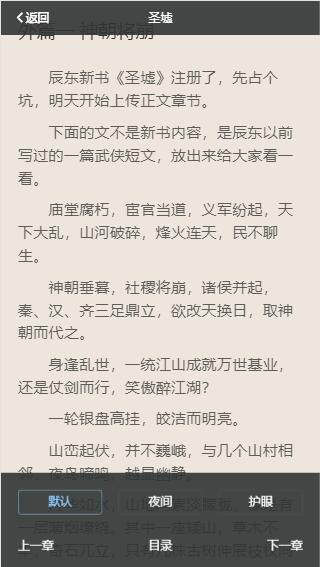
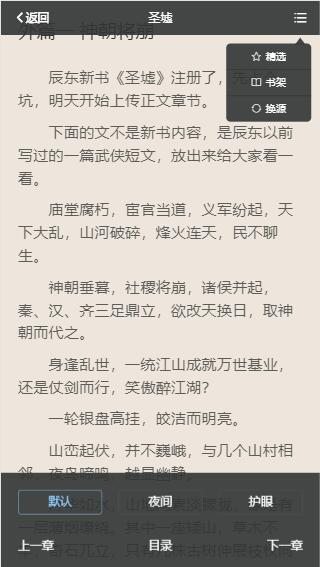
add

Changed region(s): [[0.6875, 0.03, 1.0, 0.2399]]

diff --git a/src/assets/font/iconfont.js b/src/assets/font/iconfont.js
@@ -1,1 +1,1 @@
-!function(i){var c,a='<svg><symbol id="icon-fenlei" viewBox="0 0 1026 1024"><path d="M880.76373506 961.95048067L625.79320947 961.95048067c-45.35277539 0-82.08850078-57.681225-82.08850078-103.03400039L543.70470869 625.82397822c0-45.3274831 36.73572539-82.09289971 82.08850078-82.0928997l254.96942608 0c45.29669151 0 82.08850078 36.76651612 82.08850078 82.0928997l0 254.03800166C962.85223584 925.21475527 926.06042656 961.95048067 880.76373506 961.95048067L880.76373506 961.95048067zM920.68301885 628.77990342c0-23.1404502-18.77584219-41.8910001-41.8910001-41.8910001L627.48230908 586.8889042c-23.11075898 0-41.8910001 18.7505499-41.8910001 41.8910001l0 251.30970966c0 23.11075898 18.78024112 41.88660117 41.8910001 41.88660117l251.30970967 0c23.11515791 0 41.8910001-18.77584219 41.8910001-41.88660117L920.68301885 628.77990342 920.68301885 628.77990342zM880.76373506 480.2754623L625.79320947 480.2754623c-45.35277539 0-82.08850078-57.70651817-82.08850078-103.05929355L543.70470869 144.11926953c0-45.32308417 36.73572539-82.11929151 82.08850078-82.11929151l254.96942608 0c45.29669151 0 82.08850078 36.79620732 82.08850078 82.11929151l0 254.04240059C962.85223584 443.5100457 926.06042656 480.2754623 880.76373506 480.2754623L880.76373506 480.2754623zM920.68301885 147.07409433c0-23.1140584-18.77584219-41.88990059-41.8910001-41.88990058L627.48230908 105.18419551c-23.11075898 0-41.8910001 18.77584219-41.8910001 41.88990058l0 251.31080919c0 23.1404502 18.78024112 41.88990059 41.8910001 41.88990058l251.30970967 0c23.11515791 0 41.8910001-18.74945039 41.8910001-41.88990058L920.68301885 147.07409433 920.68301885 147.07409433zM399.05902636 961.95048067L144.11929151 961.95048067C98.73572539 961.95048067 62 904.26925567 62 858.91648028L62 625.82397822c0-45.3274831 36.73572539-82.09289971 82.11929151-82.0928997l254.93973398 0c45.3274831 0 82.11929151 36.76651612 82.11929151 82.0928997l0 254.03800166C481.1519252 925.21475527 444.38650859 961.95048067 399.05902636 961.95048067L399.05902636 961.95048067zM438.97831016 628.77990342c0-23.1404502-18.74615097-41.8910001-41.88660118-41.8910001L145.78199932 586.8889042c-23.11515791 0-41.8910001 18.7505499-41.8910001 41.8910001l0 251.30970966c0 23.11075898 18.77584219 41.88660117 41.8910001 41.88660117l251.30970966 0c23.1404502 0 41.88660117-18.77584219 41.88660118-41.88660117L438.97831016 628.77990342 438.97831016 628.77990342zM399.05902636 480.2754623L144.11929151 480.2754623C98.73572539 480.2754623 62 422.56894414 62 377.21616963L62 144.11926953c0-45.32308417 36.73572539-82.11929151 82.11929151-82.11929151l254.93973398 0c45.3274831 0 82.11929151 36.76651612 82.11929151 82.11929151l0 254.04240059C481.1519252 443.5100457 444.38650859 480.2754623 399.05902636 480.2754623L399.05902636 480.2754623zM438.97831016 147.07409433c0-23.1140584-18.74615097-41.88990059-41.88660118-41.88990058L145.78199932 105.18419551c-23.11515791 0-41.8910001 18.77584219-41.8910001 41.88990058l0 251.31080919c0 23.1404502 18.77584219 41.88990059 41.8910001 41.88990058l251.30970966 0c23.1404502 0 41.88660117-18.74945039 41.88660118-41.88990058L438.97831016 147.07409433 438.97831016 147.07409433zM438.97831016 147.07409433"  ></path></symbol><symbol id="icon-book" viewBox="0 0 1024 1024"><path d="M951.74656 117.52789333h-272.45499733c-51.63690667 0-100.16085333 19.07643733-136.740864 53.84328534-12.45184 11.80740267-22.183936 25.427968-30.61623467 39.56736-8.43776-14.139392-18.16439467-27.63434667-30.74730667-39.56736-36.59093333-34.766848-85.10941867-53.837824-136.74632533-53.837824H72.25344c-14.39607467 0-26.07240533 11.02097067-26.07240533 24.77806933V827.06432c0 13.75163733 11.67633067 24.77806933 26.07786666 24.77806933h245.071872c10.25092267 0 20.63291733 0.78097067 31.00945067 2.719744 10.50760533 1.95515733 20.496384 4.67490133 29.966336 8.31214934l124.16341333 45.924352c0.25668267 0.12561067 0.51882667 0 0.77550934 0.12561066 2.85627733 0.91204267 5.71255467 1.55648 8.69444266 1.55648 2.98734933 0 5.832704-0.51336533 8.69444267-1.55648 0.12561067-0.12561067 0.51882667-0.12561067 0.64989867-0.12561066l119.226368-44.11118934a217.11530667 217.11530667 0 0 1 35.160064-9.601024 210.91669333 210.91669333 0 0 1 36.31786666-3.244032h239.75799467c14.40699733 0 26.083328-11.157504 26.083328-24.77806933V142.180352c0-13.62602667-11.67633067-24.64699733-26.083328-24.64699733zM357.79925333 805.797888a235.71114667 235.71114667 0 0 0-40.47940266-3.506176H98.20023467V166.95296h246.37166933c37.748736 0 73.302016 14.01378133 100.02432 39.57282133 26.72776533 25.427968 41.517056 59.15716267 41.517056 95.22926934v547.62427733l-88.87227733-32.82807467a247.63323733 247.63323733 0 0 0-39.436288-10.764288z m567.99505067-3.506176h-213.68558933c-15.5648 0-31.13506133 1.294336-45.91889067 4.02500267-15.05143467 2.850816-30.10286933 6.87035733-44.37333333 12.19515733l-83.80962134 30.87837867V301.62944c0-35.93557333 14.65821867-69.79584 41.385984-95.22926933 26.722304-25.427968 62.275584-39.56736 100.02432-39.56736h246.50274134v635.45344h-0.12561067z"  ></path></symbol><symbol id="icon-jingxuan" viewBox="0 0 1024 1024"><path d="M270.19563154 957.85503945l220.29664834-122.2070458c7.33422217-4.04957109 26.54718575-12.01372646 44.1403207-0.08999121l220.79159649 121.48712314a32.08159951 32.08159951 0 0 0 47.24499199-33.43145625l-43.01544023-256.92276621s-8.90905605-41.80056943 11.02383105-57.23393378l182.18568867-174.7614753a32.08159951 32.08159951 0 0 0 7.51420372-32.3065749c-3.7346045-11.33879766-11.65376513-23.39751973-23.39751974-25.42230527H763.97329092c-14.84842588 0-26.72716729 12.46367901-23.53250566 25.42230527 3.19466162 12.91363154 10.93384073 19.5729249 30.23679463 19.5729249h141.15003837l-176.24631797 158.65318301c-23.03755839 20.42783437-24.65738613 47.02001573-23.03755752 57.05395225l4.9494753 30.41677529 38.06596493 236.6749125-223.71628622-126.25661689a39.95576455 39.95576455 0 0 0-34.96129454-1e-8l-213.00742089 121.93707481 56.37902344-238.51971651c4.85948496-26.14222881-8.72907451-54.48922383-24.97235274-71.85738339L112.89230527 421.96184404s82.25128125 0.85490948 134.76071514 0c65.51305576-1.07988574 138.45032403-12.46367901 165.53745352-44.99523018 16.96320176-13.3635832 59.52869033-128.68635937 59.52868945-128.68635937l38.51591748-124.45680762 128.10142177 278.52047667c7.64918877 16.10829229 19.75290644 18.0430875 30.64175157 14.98341181 10.93384073-3.10467129 18.53803477-17.00819737 10.93384072-33.11648965L540.34699502 80.44804443a32.17158984 32.17158984 0 0 0-58.17883271 0.13498594l-53.22935743 161.08292461S397.03718604 329.63163067 379.26407041 345.3349669C346.8675043 374.04192325 269.02575547 376.96661386 157.93253105 376.96661386H91.42958076c-11.92373613 1.79980927-22.49761553 9.44899805-26.32221035 20.87778692-3.77959922 11.38379326-2.24976182 30.01181836 6.11935137 38.56091221 0 0 184.79541182 162.79274356 195.68425781 173.05165634 29.92182802 28.21200997 25.33231494 33.34146592 24.2524292 57.2339338 1.07988574 0-55.56910957 239.46461719-60.20361826 253.36814237-4.63450869 13.94852168-4.85948496 28.88693789 5.17445156 35.99618468a31.63164698 31.63164698 0 0 0 34.06138945 1.79980927z"  ></path></symbol><symbol id="icon-paihangbang-" viewBox="0 0 1024 1024"><path d="M554.6 880.4c-8.2 0-14.9-6.7-14.9-14.9V646.7c0-8.2 6.7-14.9 14.9-14.9s14.9 6.7 14.9 14.9v218.7c0 8.3-6.7 15-14.9 15zM470.4 880.4c-8.2 0-14.9-6.7-14.9-14.9V646.7c0-8.2 6.7-14.9 14.9-14.9s14.9 6.7 14.9 14.9v218.7c0.1 8.3-6.6 15-14.9 15z"  ></path><path d="M743.7 959.1H281.3c-28.9 0-52.4-23.5-52.4-52.4s23.5-52.4 52.4-52.4h462.5c28.9 0 52.4 23.5 52.4 52.4s-23.6 52.4-52.5 52.4z m-462.4-74.9c-12.4 0-22.5 10.1-22.5 22.5s10.1 22.5 22.5 22.5h462.5c12.4 0 22.5-10.1 22.5-22.5s-10.1-22.5-22.5-22.5H281.3zM568.2 653H456.8c-128.6 0-233.1-104.6-233.1-233.1V79c0-8.2 6.7-14.9 14.9-14.9h547.8c8.2 0 14.9 6.7 14.9 14.9v340.8c0 128.6-104.6 233.2-233.1 233.2zM253.5 93.9v325.9c0 112.1 91.2 203.3 203.3 203.3h111.4c112.1 0 203.3-91.2 203.3-203.3V93.9h-518z"  ></path><path d="M233.5 397.5c-70.5 0-127.8-57.3-127.8-127.8S163 141.9 233.5 141.9c8.2 0 14.9 6.7 14.9 14.9s-6.7 14.9-14.9 14.9c-54 0-97.9 43.9-97.9 97.9 0 54 43.9 97.9 97.9 97.9 8.2 0 14.9 6.7 14.9 14.9s-6.6 15.1-14.9 15.1zM791.5 397.5c-8.2 0-14.9-6.7-14.9-14.9s6.7-14.9 14.9-14.9c54 0 97.9-43.9 97.9-97.9 0-54-43.9-97.9-97.9-97.9-8.2 0-14.9-6.7-14.9-14.9s6.7-14.9 14.9-14.9c70.5 0 127.8 57.3 127.8 127.8s-57.4 127.6-127.8 127.6z"  ></path><path d="M885.8 93.9h-99.7c-8.2 0-14.9-6.7-14.9-14.9s6.7-14.9 14.9-14.9h99.7c8.2 0 14.9 6.7 14.9 14.9s-6.7 14.9-14.9 14.9zM238.9 93.9h-99.7c-8.2 0-14.9-6.7-14.9-14.9s6.7-14.9 14.9-14.9h99.7c8.2 0 14.9 6.7 14.9 14.9s-6.7 14.9-14.9 14.9z"  ></path></symbol><symbol id="icon-sousuo" viewBox="0 0 1024 1024"><path d="M949.76 884.3264a88.68864 88.68864 0 0 1-25.64096 62.67904 87.14752 87.14752 0 0 1-123.76576 0.16896l-164.29568-160.87552a382.4128 382.4128 0 0 1-26.43968 12.6208 382.83776 382.83776 0 0 1-300.032 0 383.38048 383.38048 0 0 1-122.48064-83.39968 391.296 391.296 0 0 1 0-550.36928 384.56832 384.56832 0 0 1 627.55328 123.648 391.00416 391.00416 0 0 1-40.704 376.57088l150.32832 156.56448a88.576 88.576 0 0 1 25.47712 62.39232z m-153.6512-444.04736c0-186.33216-150.41536-337.92-335.30368-337.92s-335.32928 151.6032-335.32928 337.92S275.89632 778.24 460.8 778.24s335.3088-151.64928 335.3088-337.96096z m-503.61344 168.90368a240.45568 240.45568 0 0 1 0-337.73568l34.63168 40.07424a183.46496 183.46496 0 0 0 0 257.50528z"  ></path></symbol></svg>',e=(c=document.getElementsByTagName("script"))[c.length-1].getAttribute("data-injectcss");if(e&&!i.__iconfont__svg__cssinject__){i.__iconfont__svg__cssinject__=!0;try{document.write("<style>.svgfont {display: inline-block;width: 1em;height: 1em;fill: currentColor;vertical-align: -0.1em;font-size:16px;}</style>")}catch(c){console&&console.log(c)}}!function(c){if(document.addEventListener)if(~["complete","loaded","interactive"].indexOf(document.readyState))setTimeout(c,0);else{var e=function(){document.removeEventListener("DOMContentLoaded",e,!1),c()};document.addEventListener("DOMContentLoaded",e,!1)}else document.attachEvent&&(t=c,n=i.document,l=!1,o=function(){l||(l=!0,t())},(a=function(){try{n.documentElement.doScroll("left")}catch(c){return void setTimeout(a,50)}o()})(),n.onreadystatechange=function(){"complete"==n.readyState&&(n.onreadystatechange=null,o())});var t,n,l,o,a}(function(){var c,e,t,n,l,o;(c=document.createElement("div")).innerHTML=a,a=null,(e=c.getElementsByTagName("svg")[0])&&(e.setAttribute("aria-hidden","true"),e.style.position="absolute",e.style.width=0,e.style.height=0,e.style.overflow="hidden",t=e,(n=document.body).firstChild?(l=t,(o=n.firstChild).parentNode.insertBefore(l,o)):n.appendChild(t))})}(window);
+!function(i){var c,o='<svg><symbol id="icon-fenlei" viewBox="0 0 1026 1024"><path d="M880.76373506 961.95048067L625.79320947 961.95048067c-45.35277539 0-82.08850078-57.681225-82.08850078-103.03400039L543.70470869 625.82397822c0-45.3274831 36.73572539-82.09289971 82.08850078-82.0928997l254.96942608 0c45.29669151 0 82.08850078 36.76651612 82.08850078 82.0928997l0 254.03800166C962.85223584 925.21475527 926.06042656 961.95048067 880.76373506 961.95048067L880.76373506 961.95048067zM920.68301885 628.77990342c0-23.1404502-18.77584219-41.8910001-41.8910001-41.8910001L627.48230908 586.8889042c-23.11075898 0-41.8910001 18.7505499-41.8910001 41.8910001l0 251.30970966c0 23.11075898 18.78024112 41.88660117 41.8910001 41.88660117l251.30970967 0c23.11515791 0 41.8910001-18.77584219 41.8910001-41.88660117L920.68301885 628.77990342 920.68301885 628.77990342zM880.76373506 480.2754623L625.79320947 480.2754623c-45.35277539 0-82.08850078-57.70651817-82.08850078-103.05929355L543.70470869 144.11926953c0-45.32308417 36.73572539-82.11929151 82.08850078-82.11929151l254.96942608 0c45.29669151 0 82.08850078 36.79620732 82.08850078 82.11929151l0 254.04240059C962.85223584 443.5100457 926.06042656 480.2754623 880.76373506 480.2754623L880.76373506 480.2754623zM920.68301885 147.07409433c0-23.1140584-18.77584219-41.88990059-41.8910001-41.88990058L627.48230908 105.18419551c-23.11075898 0-41.8910001 18.77584219-41.8910001 41.88990058l0 251.31080919c0 23.1404502 18.78024112 41.88990059 41.8910001 41.88990058l251.30970967 0c23.11515791 0 41.8910001-18.74945039 41.8910001-41.88990058L920.68301885 147.07409433 920.68301885 147.07409433zM399.05902636 961.95048067L144.11929151 961.95048067C98.73572539 961.95048067 62 904.26925567 62 858.91648028L62 625.82397822c0-45.3274831 36.73572539-82.09289971 82.11929151-82.0928997l254.93973398 0c45.3274831 0 82.11929151 36.76651612 82.11929151 82.0928997l0 254.03800166C481.1519252 925.21475527 444.38650859 961.95048067 399.05902636 961.95048067L399.05902636 961.95048067zM438.97831016 628.77990342c0-23.1404502-18.74615097-41.8910001-41.88660118-41.8910001L145.78199932 586.8889042c-23.11515791 0-41.8910001 18.7505499-41.8910001 41.8910001l0 251.30970966c0 23.11075898 18.77584219 41.88660117 41.8910001 41.88660117l251.30970966 0c23.1404502 0 41.88660117-18.77584219 41.88660118-41.88660117L438.97831016 628.77990342 438.97831016 628.77990342zM399.05902636 480.2754623L144.11929151 480.2754623C98.73572539 480.2754623 62 422.56894414 62 377.21616963L62 144.11926953c0-45.32308417 36.73572539-82.11929151 82.11929151-82.11929151l254.93973398 0c45.3274831 0 82.11929151 36.76651612 82.11929151 82.11929151l0 254.04240059C481.1519252 443.5100457 444.38650859 480.2754623 399.05902636 480.2754623L399.05902636 480.2754623zM438.97831016 147.07409433c0-23.1140584-18.74615097-41.88990059-41.88660118-41.88990058L145.78199932 105.18419551c-23.11515791 0-41.8910001 18.77584219-41.8910001 41.88990058l0 251.31080919c0 23.1404502 18.77584219 41.88990059 41.8910001 41.88990058l251.30970966 0c23.1404502 0 41.88660117-18.74945039 41.88660118-41.88990058L438.97831016 147.07409433 438.97831016 147.07409433zM438.97831016 147.07409433"  ></path></symbol><symbol id="icon-tihuan" viewBox="0 0 1024 1024"><path d="M162.848 414.4256l3.0576 0c44.6016-156.1632 185.9424-270.5904 353.2848-270.5904 166.7664 0 307.7808 113.8416 352.8384 269.2896l0.5856-0.1968c3.7056 8.1936 11.6352 13.9776 20.8704 13.9776 12.8112 0 23.1456-10.9248 23.1456-24.312 0-2.472-0.5232-4.8096-1.1712-7.0224l0 0c-0.0672-0.0672-0.1296-0.1968-0.1296-0.3264-0.1968-0.8448-0.3888-1.4976-0.7104-2.3424-52.5984-171.7008-209.736-296.4-395.544-296.4-189.1344 0-348.5472 129.2496-398.2848 305.8944L62.336 385.496l46.4832 141.408 118.392-94.0128L162.848 414.4256 162.848 414.4256 162.848 414.4256zM972.5408 656.5376l-46.488-141.408-118.2624 94.08 63.456 18.2688c-45.7056 154.0896-186.1344 266.8896-352.0608 266.8896-165.5232 0-305.5632-112.2816-351.6624-265.9104l-0.192 0c-2.7984-9.9456-11.64-17.5536-22.3008-17.5536-12.8064 0-23.2128 10.8624-23.2128 24.2544 0 1.4352 0.1296 2.8656 0.456 4.0992l-0.456 0.2592c50.8416 174.8256 209.4096 302.1888 397.176 302.1888 187.632 0 346.008-127.0992 397.0464-301.4064L972.5408 656.5376 972.5408 656.5376 972.5408 656.5376z"  ></path></symbol><symbol id="icon-book" viewBox="0 0 1024 1024"><path d="M951.74656 117.52789333h-272.45499733c-51.63690667 0-100.16085333 19.07643733-136.740864 53.84328534-12.45184 11.80740267-22.183936 25.427968-30.61623467 39.56736-8.43776-14.139392-18.16439467-27.63434667-30.74730667-39.56736-36.59093333-34.766848-85.10941867-53.837824-136.74632533-53.837824H72.25344c-14.39607467 0-26.07240533 11.02097067-26.07240533 24.77806933V827.06432c0 13.75163733 11.67633067 24.77806933 26.07786666 24.77806933h245.071872c10.25092267 0 20.63291733 0.78097067 31.00945067 2.719744 10.50760533 1.95515733 20.496384 4.67490133 29.966336 8.31214934l124.16341333 45.924352c0.25668267 0.12561067 0.51882667 0 0.77550934 0.12561066 2.85627733 0.91204267 5.71255467 1.55648 8.69444266 1.55648 2.98734933 0 5.832704-0.51336533 8.69444267-1.55648 0.12561067-0.12561067 0.51882667-0.12561067 0.64989867-0.12561066l119.226368-44.11118934a217.11530667 217.11530667 0 0 1 35.160064-9.601024 210.91669333 210.91669333 0 0 1 36.31786666-3.244032h239.75799467c14.40699733 0 26.083328-11.157504 26.083328-24.77806933V142.180352c0-13.62602667-11.67633067-24.64699733-26.083328-24.64699733zM357.79925333 805.797888a235.71114667 235.71114667 0 0 0-40.47940266-3.506176H98.20023467V166.95296h246.37166933c37.748736 0 73.302016 14.01378133 100.02432 39.57282133 26.72776533 25.427968 41.517056 59.15716267 41.517056 95.22926934v547.62427733l-88.87227733-32.82807467a247.63323733 247.63323733 0 0 0-39.436288-10.764288z m567.99505067-3.506176h-213.68558933c-15.5648 0-31.13506133 1.294336-45.91889067 4.02500267-15.05143467 2.850816-30.10286933 6.87035733-44.37333333 12.19515733l-83.80962134 30.87837867V301.62944c0-35.93557333 14.65821867-69.79584 41.385984-95.22926933 26.722304-25.427968 62.275584-39.56736 100.02432-39.56736h246.50274134v635.45344h-0.12561067z"  ></path></symbol><symbol id="icon-jingxuan" viewBox="0 0 1024 1024"><path d="M270.19563154 957.85503945l220.29664834-122.2070458c7.33422217-4.04957109 26.54718575-12.01372646 44.1403207-0.08999121l220.79159649 121.48712314a32.08159951 32.08159951 0 0 0 47.24499199-33.43145625l-43.01544023-256.92276621s-8.90905605-41.80056943 11.02383105-57.23393378l182.18568867-174.7614753a32.08159951 32.08159951 0 0 0 7.51420372-32.3065749c-3.7346045-11.33879766-11.65376513-23.39751973-23.39751974-25.42230527H763.97329092c-14.84842588 0-26.72716729 12.46367901-23.53250566 25.42230527 3.19466162 12.91363154 10.93384073 19.5729249 30.23679463 19.5729249h141.15003837l-176.24631797 158.65318301c-23.03755839 20.42783437-24.65738613 47.02001573-23.03755752 57.05395225l4.9494753 30.41677529 38.06596493 236.6749125-223.71628622-126.25661689a39.95576455 39.95576455 0 0 0-34.96129454-1e-8l-213.00742089 121.93707481 56.37902344-238.51971651c4.85948496-26.14222881-8.72907451-54.48922383-24.97235274-71.85738339L112.89230527 421.96184404s82.25128125 0.85490948 134.76071514 0c65.51305576-1.07988574 138.45032403-12.46367901 165.53745352-44.99523018 16.96320176-13.3635832 59.52869033-128.68635937 59.52868945-128.68635937l38.51591748-124.45680762 128.10142177 278.52047667c7.64918877 16.10829229 19.75290644 18.0430875 30.64175157 14.98341181 10.93384073-3.10467129 18.53803477-17.00819737 10.93384072-33.11648965L540.34699502 80.44804443a32.17158984 32.17158984 0 0 0-58.17883271 0.13498594l-53.22935743 161.08292461S397.03718604 329.63163067 379.26407041 345.3349669C346.8675043 374.04192325 269.02575547 376.96661386 157.93253105 376.96661386H91.42958076c-11.92373613 1.79980927-22.49761553 9.44899805-26.32221035 20.87778692-3.77959922 11.38379326-2.24976182 30.01181836 6.11935137 38.56091221 0 0 184.79541182 162.79274356 195.68425781 173.05165634 29.92182802 28.21200997 25.33231494 33.34146592 24.2524292 57.2339338 1.07988574 0-55.56910957 239.46461719-60.20361826 253.36814237-4.63450869 13.94852168-4.85948496 28.88693789 5.17445156 35.99618468a31.63164698 31.63164698 0 0 0 34.06138945 1.79980927z"  ></path></symbol><symbol id="icon-paihangbang-" viewBox="0 0 1024 1024"><path d="M554.6 880.4c-8.2 0-14.9-6.7-14.9-14.9V646.7c0-8.2 6.7-14.9 14.9-14.9s14.9 6.7 14.9 14.9v218.7c0 8.3-6.7 15-14.9 15zM470.4 880.4c-8.2 0-14.9-6.7-14.9-14.9V646.7c0-8.2 6.7-14.9 14.9-14.9s14.9 6.7 14.9 14.9v218.7c0.1 8.3-6.6 15-14.9 15z"  ></path><path d="M743.7 959.1H281.3c-28.9 0-52.4-23.5-52.4-52.4s23.5-52.4 52.4-52.4h462.5c28.9 0 52.4 23.5 52.4 52.4s-23.6 52.4-52.5 52.4z m-462.4-74.9c-12.4 0-22.5 10.1-22.5 22.5s10.1 22.5 22.5 22.5h462.5c12.4 0 22.5-10.1 22.5-22.5s-10.1-22.5-22.5-22.5H281.3zM568.2 653H456.8c-128.6 0-233.1-104.6-233.1-233.1V79c0-8.2 6.7-14.9 14.9-14.9h547.8c8.2 0 14.9 6.7 14.9 14.9v340.8c0 128.6-104.6 233.2-233.1 233.2zM253.5 93.9v325.9c0 112.1 91.2 203.3 203.3 203.3h111.4c112.1 0 203.3-91.2 203.3-203.3V93.9h-518z"  ></path><path d="M233.5 397.5c-70.5 0-127.8-57.3-127.8-127.8S163 141.9 233.5 141.9c8.2 0 14.9 6.7 14.9 14.9s-6.7 14.9-14.9 14.9c-54 0-97.9 43.9-97.9 97.9 0 54 43.9 97.9 97.9 97.9 8.2 0 14.9 6.7 14.9 14.9s-6.6 15.1-14.9 15.1zM791.5 397.5c-8.2 0-14.9-6.7-14.9-14.9s6.7-14.9 14.9-14.9c54 0 97.9-43.9 97.9-97.9 0-54-43.9-97.9-97.9-97.9-8.2 0-14.9-6.7-14.9-14.9s6.7-14.9 14.9-14.9c70.5 0 127.8 57.3 127.8 127.8s-57.4 127.6-127.8 127.6z"  ></path><path d="M885.8 93.9h-99.7c-8.2 0-14.9-6.7-14.9-14.9s6.7-14.9 14.9-14.9h99.7c8.2 0 14.9 6.7 14.9 14.9s-6.7 14.9-14.9 14.9zM238.9 93.9h-99.7c-8.2 0-14.9-6.7-14.9-14.9s6.7-14.9 14.9-14.9h99.7c8.2 0 14.9 6.7 14.9 14.9s-6.7 14.9-14.9 14.9z"  ></path></symbol><symbol id="icon-sousuo" viewBox="0 0 1024 1024"><path d="M949.76 884.3264a88.68864 88.68864 0 0 1-25.64096 62.67904 87.14752 87.14752 0 0 1-123.76576 0.16896l-164.29568-160.87552a382.4128 382.4128 0 0 1-26.43968 12.6208 382.83776 382.83776 0 0 1-300.032 0 383.38048 383.38048 0 0 1-122.48064-83.39968 391.296 391.296 0 0 1 0-550.36928 384.56832 384.56832 0 0 1 627.55328 123.648 391.00416 391.00416 0 0 1-40.704 376.57088l150.32832 156.56448a88.576 88.576 0 0 1 25.47712 62.39232z m-153.6512-444.04736c0-186.33216-150.41536-337.92-335.30368-337.92s-335.32928 151.6032-335.32928 337.92S275.89632 778.24 460.8 778.24s335.3088-151.64928 335.3088-337.96096z m-503.61344 168.90368a240.45568 240.45568 0 0 1 0-337.73568l34.63168 40.07424a183.46496 183.46496 0 0 0 0 257.50528z"  ></path></symbol><symbol id="icon-menu" viewBox="0 0 1024 1024"><path d="M120 212.2m-43.2 0a43.2 43.2 0 1 0 86.4 0 43.2 43.2 0 1 0-86.4 0Z"  ></path><path d="M894.6 255.4H298.1c-23.8 0-43.2-19.4-43.2-43.2 0-23.8 19.4-43.2 43.2-43.2h596.5c23.8 0 43.2 19.4 43.2 43.2 0 23.7-19.4 43.2-43.2 43.2z"  ></path><path d="M120 510.4m-43.2 0a43.2 43.2 0 1 0 86.4 0 43.2 43.2 0 1 0-86.4 0Z"  ></path><path d="M894.6 553.6H298.1c-23.8 0-43.2-19.4-43.2-43.2 0-23.8 19.4-43.2 43.2-43.2h596.5c23.8 0 43.2 19.4 43.2 43.2 0 23.8-19.4 43.2-43.2 43.2z"  ></path><path d="M120 808.7m-43.2 0a43.2 43.2 0 1 0 86.4 0 43.2 43.2 0 1 0-86.4 0Z"  ></path><path d="M894.6 851.9H298.1c-23.8 0-43.2-19.4-43.2-43.2 0-23.8 19.4-43.2 43.2-43.2h596.5c23.8 0 43.2 19.4 43.2 43.2 0 23.7-19.4 43.2-43.2 43.2z"  ></path></symbol></svg>',t=(c=document.getElementsByTagName("script"))[c.length-1].getAttribute("data-injectcss");if(t&&!i.__iconfont__svg__cssinject__){i.__iconfont__svg__cssinject__=!0;try{document.write("<style>.svgfont {display: inline-block;width: 1em;height: 1em;fill: currentColor;vertical-align: -0.1em;font-size:16px;}</style>")}catch(c){console&&console.log(c)}}!function(c){if(document.addEventListener)if(~["complete","loaded","interactive"].indexOf(document.readyState))setTimeout(c,0);else{var t=function(){document.removeEventListener("DOMContentLoaded",t,!1),c()};document.addEventListener("DOMContentLoaded",t,!1)}else document.attachEvent&&(e=c,l=i.document,a=!1,n=function(){a||(a=!0,e())},(o=function(){try{l.documentElement.doScroll("left")}catch(c){return void setTimeout(o,50)}n()})(),l.onreadystatechange=function(){"complete"==l.readyState&&(l.onreadystatechange=null,n())});var e,l,a,n,o}(function(){var c,t,e,l,a,n;(c=document.createElement("div")).innerHTML=o,o=null,(t=c.getElementsByTagName("svg")[0])&&(t.setAttribute("aria-hidden","true"),t.style.position="absolute",t.style.width=0,t.style.height=0,t.style.overflow="hidden",e=t,(l=document.body).firstChild?(a=e,(n=l.firstChild).parentNode.insertBefore(a,n)):l.appendChild(e))})}(window);

diff --git a/src/assets/font/iconfont.css b/src/assets/font/iconfont.css
@@ -1,10 +1,10 @@
 @font-face {font-family: "iconfont";
-  src: url('iconfont.eot?t=1548991154969'); /* IE9 */
-  src: url('iconfont.eot?t=1548991154969#iefix') format('embedded-opentype'), /* IE6-IE8 */
[1 lines of base64/hex data omitted]
-  url('iconfont.woff?t=1548991154969') format('woff'),
-  url('iconfont.ttf?t=1548991154969') format('truetype'), /* chrome, firefox, opera, Safari, Android, iOS 4.2+ */
-  url('iconfont.svg?t=1548991154969#iconfont') format('svg'); /* iOS 4.1- */
+  src: url('iconfont.eot?t=1549088673779'); /* IE9 */
+  src: url('iconfont.eot?t=1549088673779#iefix') format('embedded-opentype'), /* IE6-IE8 */
[1 lines of base64/hex data omitted]
+  url('iconfont.woff?t=1549088673779') format('woff'),
+  url('iconfont.ttf?t=1549088673779') format('truetype'), /* chrome, firefox, opera, Safari, Android, iOS 4.2+ */
+  url('iconfont.svg?t=1549088673779#iconfont') format('svg'); /* iOS 4.1- */
 }
 
 .iconfont {
@@ -17,6 +17,10 @@
 
 .icon-fenlei:before {
   content: "\e671";
+}
+
+.icon-tihuan:before {
+  content: "\e62d";
 }
 
 .icon-book:before {
@@ -33,5 +37,9 @@
 
 .icon-sousuo:before {
   content: "\e782";
+}
+
+.icon-menu:before {
+  content: "\e601";
 }
 

diff --git a/src/components/readControl.vue b/src/components/readControl.vue
@@ -3,6 +3,21 @@
 		<div class="control-header" :style="{transform: show ? 'translateY(0)' : 'translateY(-100%)', opacity: show ? 1 : 0}">
 			<span v-text="title"></span>
 			<i class="cubeic-back" @click="back">返回</i>
+			<i class="iconfont icon-menu" @click.stop="menu"></i>
+			<div class="control-menu" v-show="isMenuShow">
+				<router-link :to="{path: 'feature'}" tag="p">
+					<i class="iconfont icon-jingxuan"></i>
+					<span>精选</span>
+				</router-link>
+				<router-link :to="{path: '/'}" tag="p">
+					<i class="iconfont icon-book"></i>
+					<span>书架</span>
+				</router-link>
+				<p @click="changeSource">
+					<i class="iconfont icon-tihuan"></i>
+					<span>换源</span>
+				</p>
+			</div>
 		</div>
 		<div class="control-footer" :style="{transform: show ? 'translateY(0)' : 'translateY(100%)', opacity: show ? 1 : 0}">
 			<div class="control-footer-themes" @click.stop>
@@ -34,11 +49,18 @@ export default {
 				{value: 'dark', text: '夜间'},
 				{value: 'protect', text: '护眼'}
 			],
+			isMenuShow: false
 		}
 	},
 	methods: {
 		back () {
 			this.$router.go(-1)
+		},
+		menu () {
+			this.isMenuShow = !this.isMenuShow
+		},
+		changeSource () {
+			this.$emit('changeSource', '')
 		},
 		showMenu () {
 			this.$emit('showMenu', '')
@@ -49,7 +71,6 @@ export default {
 	},
 	watch: {
 		checkerSelect: function (val) {
-			console.log(val)
 			this.$emit('themesChange', val)
 		}
 	}
@@ -84,6 +105,49 @@ export default {
 	  left: 0;
 	  padding: 0 15px;
 	  color: #fff;
+	}
+	.icon-menu{
+		position: absolute;
+	  top: 0;
+	  right: 0;
+	  padding: 0 15px;
+	  color: #fff;
+	}
+	.control-menu{
+		position: absolute;
+		right: 10px;
+		top: 50px;
+		width: 100px;
+		text-align: center;
+		border-radius: 5px;
+		background-color: rgba(50,51,52,.9);
+		font-size: 12px;
+		line-height: 2.5;
+		p{
+			border-bottom: 1px solid rgba(0,0,0,.2);
+			&:last-child{
+				border-bottom: none;
+			}
+		}
+		i{
+			font-size: 12px;
+		}
+		span{
+			display: inline;
+			margin-left: 5px;
+		}
+		&:before{
+			content: '';
+			position: absolute;
+			right: 0;
+			top: -7px;
+			right: 7.5px;
+			width: 0;
+			height: 0;
+			border-style: solid;
+	    border-color: transparent transparent rgba(50,51,52,.9);
+	    border-width: 0 6px 8px;
+		}
 	}
 }
 .control-footer{

diff --git a/src/views/read.vue b/src/views/read.vue
@@ -1,7 +1,7 @@
 <template>
 	<div class="read" ref="read" :style="{backgroundColor: themes[themes.type].bgColor}" v-title="header.title" @click="showControl = !showControl">
 		<read-content :data="bookContent" :show-loading="scrollToNext"></read-content>
-		<read-control :show="showControl" @themesChange="themesChange" @showMenu="showMenu" @toNearChapter="toNearChapter"></read-control>
+		<read-control :show="showControl" @themesChange="themesChange" @showMenu="showMenu" @toNearChapter="toNearChapter" @changeSource="changeSource"></read-control>
 		<read-menu ref="menu" :data="menu" @menu-change="menuChange" @change-chapter-index="changeMenuIndex"></read-menu>
 	</div>
 </template>
@@ -29,6 +29,7 @@ export default {
 			source: {
 				sourceIndex: 0, //数据源index
 				menuIndex: 1, //目录index
+				changeSource: null,
 				sourceData: [] //数据源
 			},
 			scrollToNext: false, //滚动加载下一章开关
@@ -74,6 +75,8 @@ export default {
 		getMenu () {
 			this.$axios.get('/atoc/'+this.readId+'?view=chapters&channel=mweb&platform=h5', {}).then((res)=>{
 				this.menu = res.data.chapters
+				this.bookContent = []
+				this.source.menuIndex = 1
 				this.getChapter()
 			})
 		},
@@ -95,9 +98,26 @@ export default {
 			this.bookContent = []
 			this.getChapter()
 		},
+		changeSource () {
+			if (!this.source.changeSource) {
+        this.source.changeSource = this.$createPicker({
+          title: '换源',
+          data: [this.source.sourceData.map((item)=>{return {text: item.name, value: item.name}})],
+          onSelect: this.toChangeSource,
+        })
+      }
+      this.source.changeSource.show()
+		},
+		toChangeSource (selectedVal, selectedIndex, selectedText) {
+			if (this.source.sourceIndex !== selectedIndex[0]) {
+				this.source.sourceIndex = selectedIndex[0]
+				this.readId = this.source.sourceData[this.source.sourceIndex]._id
+				this.getMenu()
+			}
+		},
 		scroll () {
 			let _dom = this.$refs.read
-			if (_dom.scrollTop+_dom.clientHeight+10 >= _dom.scrollHeight) {
+			if (_dom.scrollTop+_dom.clientHeight+10 >= _dom.scrollHeight && _dom.scrollTop !== 0) {
 				if (this.source.menuIndex === this.menu.length) {
 					return
 				}

diff --git a/src/cube-ui.js b/src/cube-ui.js
@@ -30,7 +30,7 @@ import {
   // popup
   Popup,
   Toast,
-  /*Picker,*/
+  Picker,
   /*CascadePicker,*/
   /*DatePicker,*/
   /*TimePicker,*/
@@ -70,7 +70,7 @@ Vue.use(Checker)
 //Vue.use(Form)
 Vue.use(Popup)
 Vue.use(Toast)
-//Vue.use(Picker)
+Vue.use(Picker)
 //Vue.use(CascadePicker)
 //Vue.use(DatePicker)
 //Vue.use(TimePicker)
